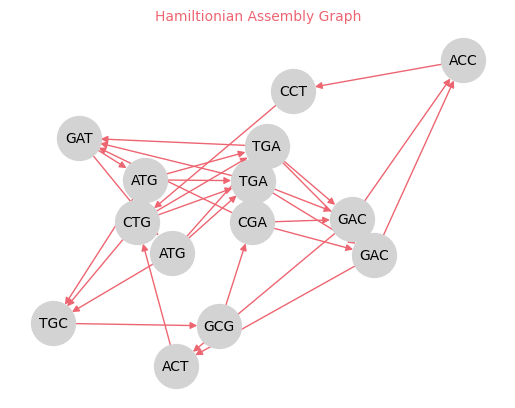
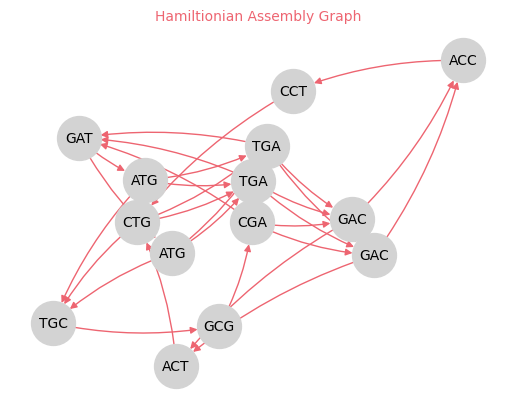
-- added implemented and tested DBG

diff --git a/src/DBG.py b/src/DBG.py
@@ -21,10 +21,10 @@ class DBGraph(nx.MultiDiGraph):
 
     def __establish_nodes_links(self):
         for kmer in self.kmers:
-            prefix, suffix = prefix(kmer), suffix(kmer)
-            self.add_node(prefix)
-            self.add_node(suffix)
-            self.add_edge(prefix, suffix, label=kmer)
+            pref, suff = prefix(kmer), suffix(kmer)
+            self.add_node(pref)
+            self.add_node(suff)
+            self.add_edge(pref, suff, label=kmer)
 
     def __init__(self, kmers):
         super().__init__()
@@ -56,13 +56,32 @@ class DBGraph(nx.MultiDiGraph):
         else:
             return super().__setattr__(name, value)
         
-    def viz(self):
+    def viz(self, title='De Bruijn Graph'):
         '''
         -- visualize the graph --
         '''
-        plt.figure(figsize=(10,10))
+        pos=nx.spring_layout(self, seed=42)
+        fig, ax = plt.subplots()
         pos = nx.spring_layout(self)
+        ax.set_title(title, fontsize=10, color='#4E9BB9')
+        fig.patch.set_alpha(0)  
+        ax.set_facecolor("none")  
         labels = nx.get_edge_attributes(self, 'label')
         nx.draw(self, pos, with_labels=False, node_size=800, node_color="#91CBD7", connectionstyle='arc3, rad = 0.1')
-        nx.draw_networkx_edge_labels(self, pos, edge_labels=labels, font_color='#4E9BB9', font_size=10)
+        nx.draw_networkx_edge_labels(self, pos, edge_labels=labels, font_color='#4E9BB9', font_size=10, bbox=dict(facecolor='none', edgecolor='none'))
+        plt.show()
+
         
+    def __str__(self):
+        stats = {'kmers': self.number_of_nodes(), 'overlaps': self.number_of_edges()}
+        stats = pd.Series(stats)
+        display(stats)
+        self.viz()
+        return 'De Bruijn Graph'
+    
+if __name__ == '__main__':
+    dna_string = "ATGCGATGACCTGACT"
+    k = 3
+    a=split_into_kmers(dna_string, k)
+    g=DBGraph(a)
+    print(g)

diff --git a/src/HAG.py b/src/HAG.py
@@ -85,7 +85,8 @@ class HAGraph(nx.DiGraph):
         fig.patch.set_alpha(0)  
         ax.set_facecolor("none")  
         nx.draw(self, pos, with_labels=True, edge_color='#ED6571', node_color='lightgrey', 
-                font_size=10, node_size=1000, ax=ax)
+                font_size=10, node_size=1000, ax=ax, connectionstyle='arc3, rad = 0.1')
+    
         plt.show()
 
         

diff --git a/README.md b/README.md
@@ -1,4 +1,4 @@
-# Genome assembly through Graph theory <img src='./assets/neural.png' width=25>
+# Genome assembly through Graph theory <img src='./assets/neural.png' width=35>
 
 Genome Assembly is one of the biggest bioinformatics problems aiming to generate process and generate genomic data from sequenced DNA. It is still tackled by researchers, _Assemblethon_ is a widely known competition to compare different genome assembly algorithms and their performance.
 
@@ -22,12 +22,15 @@ But this approach allowed another visualization of the problem, leading a simple
 </p>
 
 The Eulerian cycle is a path that goes through all edges of a graph once and only once, and ends up in the same node, however unlike the Hamiltonian path, it can pass through vertices several times. Solving it is doable in polynomial time, and it's the key used in many genome assembly algorithms to solve the problem.
-The graph that represents the reads is called the _De Bruijn graph_, and the Eulerian path in this graph will give us the original genome.
+The graph that represents the reads is called the _De Bruijn graph_, and the Eulerian path in this graph will give us the original genome.  
+Finding the Eulerian path is a well-known problem, and it can be solved in polynomial time using _Hierholzer's algorithm_, an exact solution.
 
-In this repository we will explore the construction for both types of graphs. Although the main focus will be on the De Bruijn graph and the Eulerian path, it would be interesting to try metahuristic algorithms to solve the Hamiltonian path problem in an approximate way.
+_In this repository we will explore the construction for both types of graphs. Although the main focus will be on the De Bruijn graph and the Eulerian path, it would be interesting to try metahuristic algorithms to solve the Hamiltonian path problem in an approximate way._
 
 
-
+> [!CAUTION]
+Even though an exact solution of the Eulerian path exists and is solvable in polynomial time, it's still an open problem in genome assembly.  
+The main issue lies with the nature of sequenced reads (errors, repeats, gaps...). Ideally, we would get the correct sequence of all the fragments we have initially created from the whole genome, so we would get one perfectly reconstructed sequence. However that's never the case, we always end up with several assembled "contigs", which is later complemented with scaffolding approaches to fill in gaps and elucidate the whole genome sequence. 
 
 ## De Bruijn Graph
 De Bruijn Graph is a directed graph that represents overlaps between k-mers (k-mers as edges). Used to reconstruct genome from Eulerian path. It provides an exact solution through _Hierholzer's algorithm_.
@@ -40,10 +43,32 @@ De Bruijn Graph is a directed graph that represents overlaps between k-mers (k-m
 <!-- $Hierholzer's\ algorithm(G):$  
 $V, E \leftarrow G$ -->
 
-> [!IMPORTANT]
-If an exact solution of the Eulerian path exists and is solvable in polynomial time, why is it still an open problem in genome assembly? 
-The main issue lies with the sequenced reads. Ideally, we would get the correct sequence of all the fragments we have initially created from the whole genome, so we would get one perfectly reconstructed sequence. However that's never the case, we always end up with several assembled "contigs", which is later complemented with other scaffolding approaches to fill in gaps and get the genome.  
-Let alone the fact that we have a percentage error for each bp sequenced, many reads might not show overlap, failing to reconstruct the fragments as they were. Finding overlaps is especially problematic while dealing with repeats, like `AGAGAGAGAAGA` where the overlap is not unique. To make the assembly results more accurate, we consider starting off with a large k value, however this raises the complexity of the problem and makes it harder to find overlaps. It's always gonna be a trade-off
+ 
+
+_Finding overlaps is especially problematic while dealing with repeats, like `AGAGAGAGAAGA` where the overlap is not unique. To make the assembly results more accurate, we consider starting off with a large k value, however this raises the complexity of the problem and makes it harder to find overlaps. It's always gonna be a trade-off_
+
+To build a De Bruijn graph, you can use the following code:
+```bash
+python src/DBG.py
+```
+Which will try building a graph from 3-mers the form the dna string `ATGCGATGACCTGACT`, following this example:
+```python
+>>> dna_string = "ATGCGATGACCTGACT"
+>>> k = 3
+>>> a=split_into_kmers(dna_string, k)
+>>> g=DBGraph(a)
+>>> print(g)
+kmers        8
+overlaps    14
+dtype: int64
+De Bruijn Graph
+``` 
+
+<p align='center'>
+<img src='./assets/DBG.png' width=60%>
+</p>
+
+
 
 ## Hamiltonian Assembly Graph
 
@@ -54,19 +79,6 @@ This graph that has k-mers as nodes and overlap as edges, solved by the Hamilton
 * Graph: directed
 
 It will be a digraph (inherits `nx.DiGraph`), as overlaps can be in both directions. Most importantly, we will allow for duplicate **nodes**, and that's through the implementation of a `Kmer` class that will allow to have unqiue instances of 2 identically sequenced k-mers (not to lose the multiplicity, it's a very important design step). We do not care for edge multiplicity, as we only need to know if there is an overlap or not (binary relationship). From here we can see some differences in class implementation with DBG, in addition to the formal definition of nodes and edges.
-
-
-## Demo
-
-Python libraries enlisted in [`requirements.txt`](./requirements.txt) file.  
-<!-- To use `graphviz` to visualize the graph, you need to install this if you're on conda:
-```bash
-conda install -c anaconda python-graphviz
-```
-Or else install it on ubuntu:
-```bash
-sudo apt-get install graphviz
-``` -->
 
 To build a hamiltonian assembly graph, you can use the following code:
 ```bash
@@ -87,6 +99,20 @@ Hamiltionian Assembly Graph
 <p align='center'>
 <img src='./assets/HAG.png' width=60%>
 </p>
+
+## Demo
+
+Python libraries enlisted in [`requirements.txt`](./requirements.txt) file.  
+<!-- To use `graphviz` to visualize the graph, you need to install this if you're on conda:
+```bash
+conda install -c anaconda python-graphviz
+```
+Or else install it on ubuntu:
+```bash
+sudo apt-get install graphviz
+``` -->
+
+
 
 ## References  
 * [Eilliam Fiset youtube playlist](https://www.youtube.com/watch?v=8MpoO2zA2l4) for graph theory - particulalry Eulerian path and Hierholzer's algorithm  
